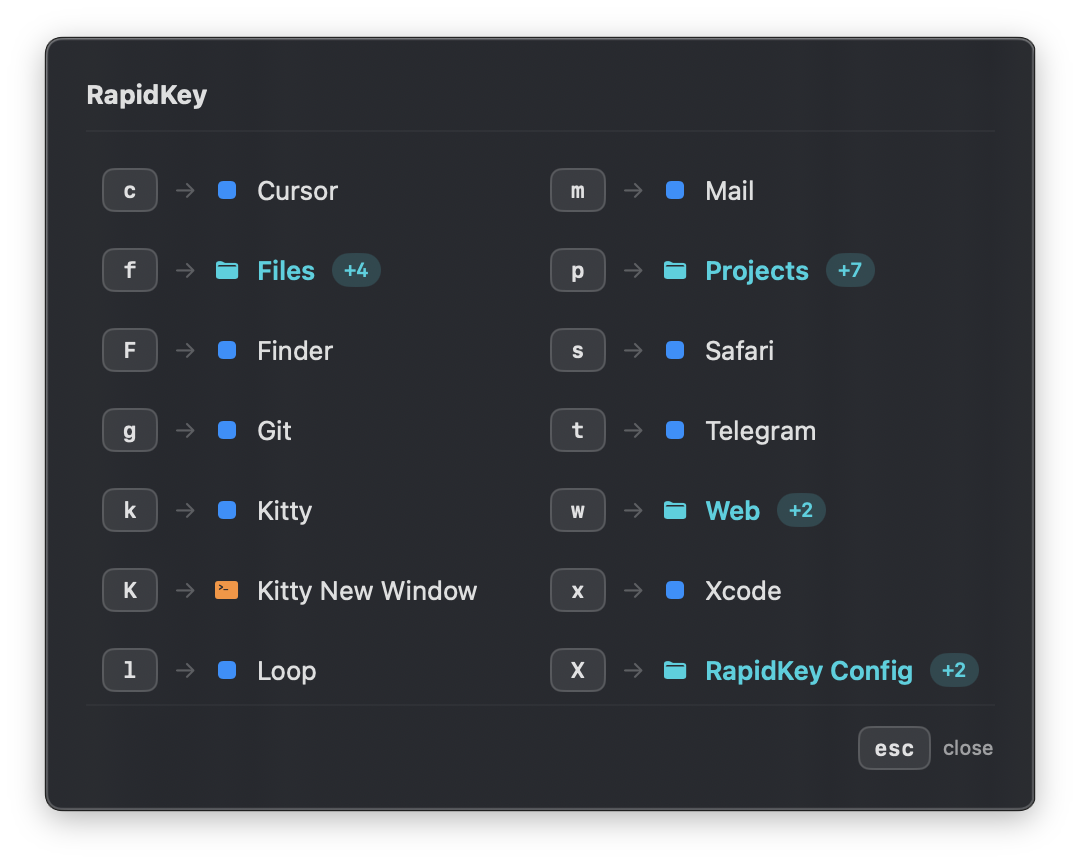
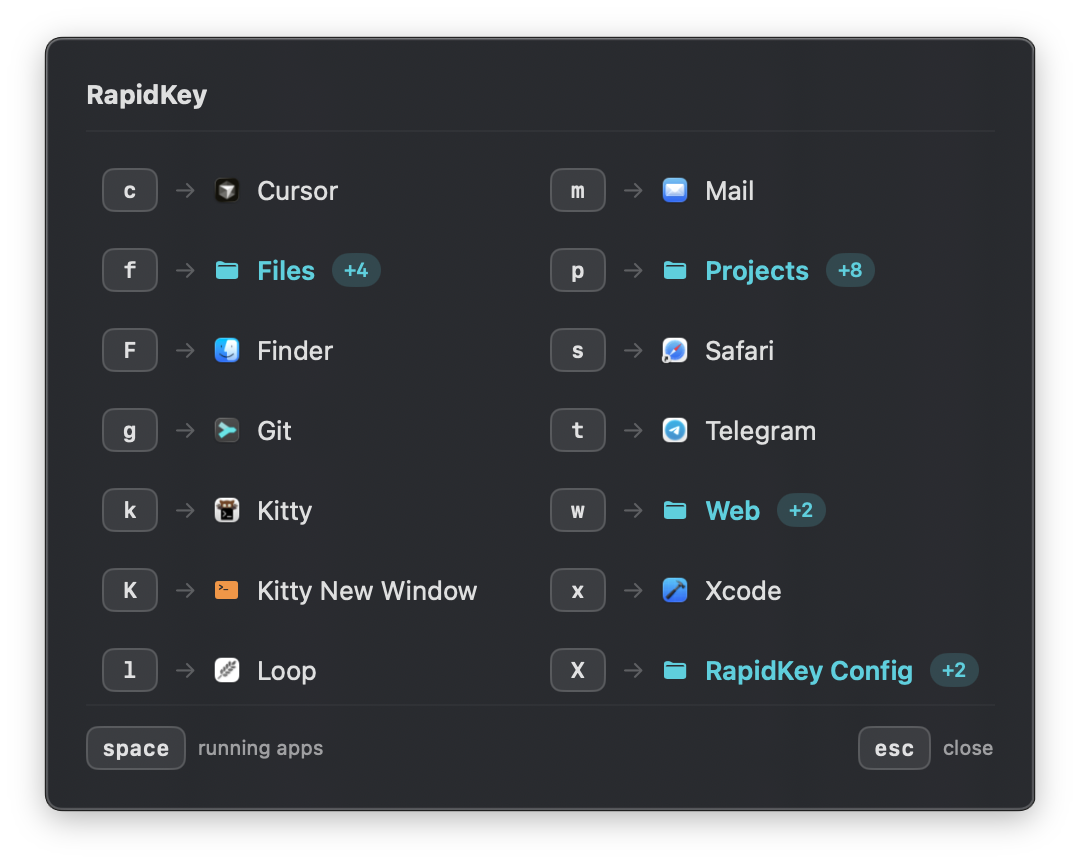
docs: Update README to include new screenshot of running apps feature and enhance visual documentation.

diff --git a/README.md b/README.md
@@ -8,6 +8,8 @@ Inspired by the [which-key](https://github.com/folke/which-key.nvim) plugin in [
 
 ![RapidKey command palette](screenshots/panel.png)
 
+![RapidKey running apps branch](screenshots/running_apps.png)
+
 ![RapidKey command output panel](screenshots/command_output.png)
 
 ## Features
